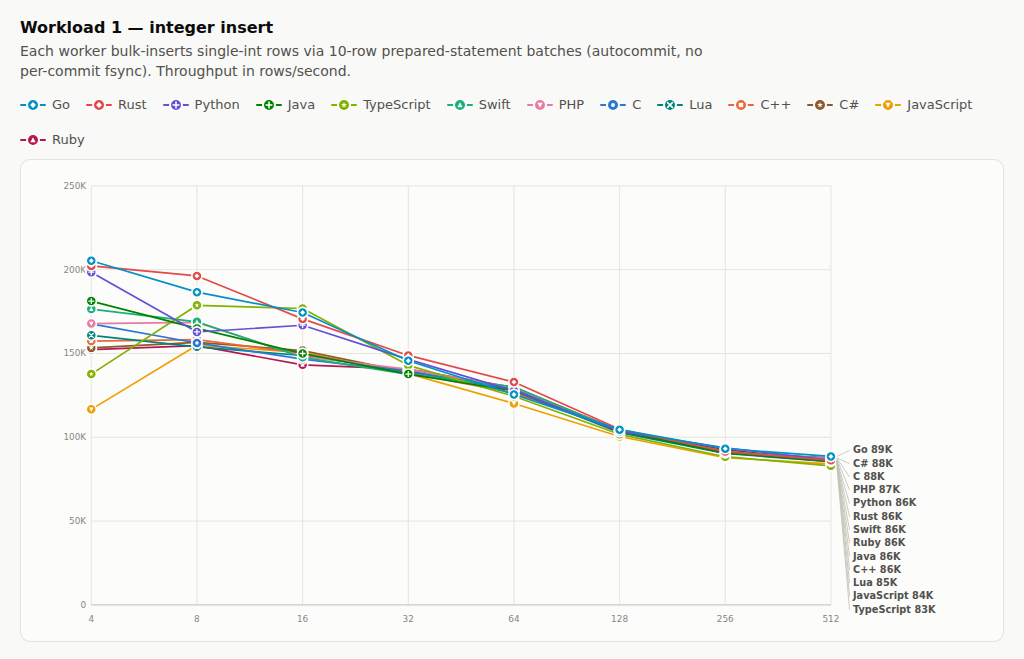
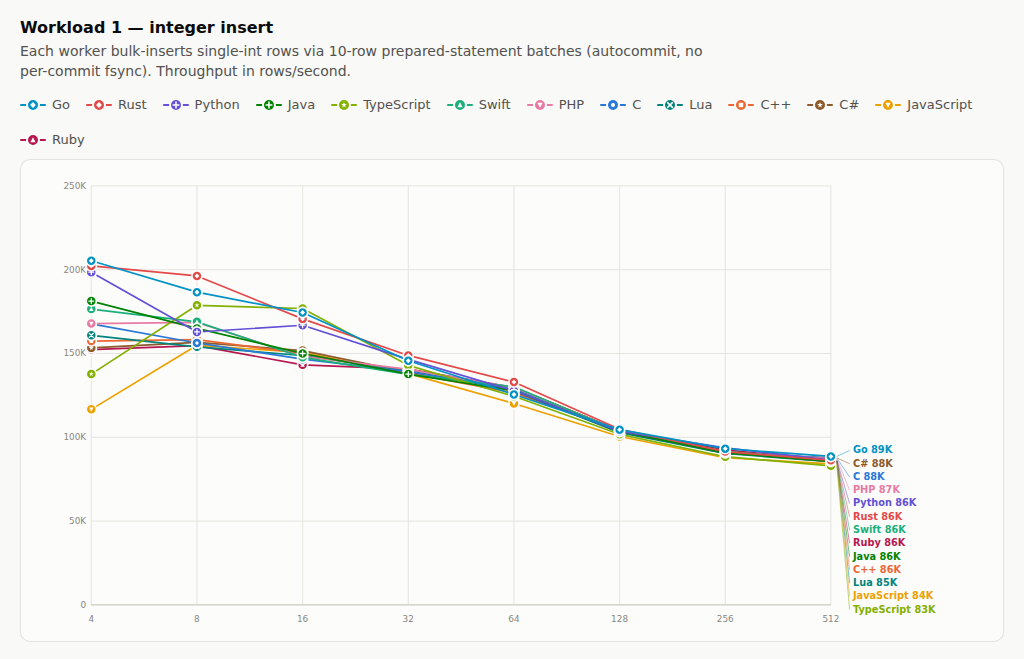
report: colour line-chart end labels to match their series
The right-side reference labels (language name + score) and their leader lines
on the line charts now use each series' own colour instead of neutral ink, so
the label ties directly to its line. Applied via inline style so it overrides
the .seriesname stylesheet rule.

Changed region(s): [[0.8125, 0.6677, 0.9062, 0.9408]]

diff --git a/report/report.html b/report/report.html
@@ -359,9 +359,14 @@ const PAGE_BARS = false;
     if (over > 0) for (const L of labels) L.y -= over*(L.y-BM.t)/BIH;
     for (const L of labels) {
       const ax = X(L.li);
-      if (Math.abs(L.y-L.endY) > 3 || ax < X(N-1)-1)
-        svg.appendChild(el("line", { x1: ax+7, y1: L.endY, x2: X(N-1)+22, y2: L.y, stroke: "var(--baseline)", "stroke-width": 1 }));
+      if (Math.abs(L.y-L.endY) > 3 || ax < X(N-1)-1) {
+        const ldr = el("line", { x1: ax+7, y1: L.endY, x2: X(N-1)+22, y2: L.y, "stroke-width": 1 });
+        ldr.style.stroke = L.d.st.color; ldr.setAttribute("stroke-opacity", "0.6");
+        svg.appendChild(ldr);
+      }
+      // End-of-line reference label (language + score) in the series' own colour.
       const t = el("text", { x: X(N-1)+26, y: L.y+3.5, class: "seriesname" });
+      t.style.fill = L.d.st.color;
       t.textContent = L.d.name + "  " + fmt(L.d.vals[L.li]); svg.appendChild(t);
     }
     const cross = el("line", { y1: BM.t, y2: BM.t+BIH, stroke: "var(--baseline)", "stroke-width": 1, visibility: "hidden" });

diff --git a/report/bars.html b/report/bars.html
@@ -295,9 +295,14 @@ const PAGE_BARS = true;
     if (over > 0) for (const L of labels) L.y -= over*(L.y-BM.t)/BIH;
     for (const L of labels) {
       const ax = X(L.li);
-      if (Math.abs(L.y-L.endY) > 3 || ax < X(N-1)-1)
-        svg.appendChild(el("line", { x1: ax+7, y1: L.endY, x2: X(N-1)+22, y2: L.y, stroke: "var(--baseline)", "stroke-width": 1 }));
+      if (Math.abs(L.y-L.endY) > 3 || ax < X(N-1)-1) {
+        const ldr = el("line", { x1: ax+7, y1: L.endY, x2: X(N-1)+22, y2: L.y, "stroke-width": 1 });
+        ldr.style.stroke = L.d.st.color; ldr.setAttribute("stroke-opacity", "0.6");
+        svg.appendChild(ldr);
+      }
+      // End-of-line reference label (language + score) in the series' own colour.
       const t = el("text", { x: X(N-1)+26, y: L.y+3.5, class: "seriesname" });
+      t.style.fill = L.d.st.color;
       t.textContent = L.d.name + "  " + fmt(L.d.vals[L.li]); svg.appendChild(t);
     }
     const cross = el("line", { y1: BM.t, y2: BM.t+BIH, stroke: "var(--baseline)", "stroke-width": 1, visibility: "hidden" });

diff --git a/report/generate_html_report.py b/report/generate_html_report.py
@@ -534,9 +534,14 @@ const PAGE_BARS = __PAGE_BARS__;
     if (over > 0) for (const L of labels) L.y -= over*(L.y-BM.t)/BIH;
     for (const L of labels) {
       const ax = X(L.li);
-      if (Math.abs(L.y-L.endY) > 3 || ax < X(N-1)-1)
-        svg.appendChild(el("line", { x1: ax+7, y1: L.endY, x2: X(N-1)+22, y2: L.y, stroke: "var(--baseline)", "stroke-width": 1 }));
+      if (Math.abs(L.y-L.endY) > 3 || ax < X(N-1)-1) {
+        const ldr = el("line", { x1: ax+7, y1: L.endY, x2: X(N-1)+22, y2: L.y, "stroke-width": 1 });
+        ldr.style.stroke = L.d.st.color; ldr.setAttribute("stroke-opacity", "0.6");
+        svg.appendChild(ldr);
+      }
+      // End-of-line reference label (language + score) in the series' own colour.
       const t = el("text", { x: X(N-1)+26, y: L.y+3.5, class: "seriesname" });
+      t.style.fill = L.d.st.color;
       t.textContent = L.d.name + "  " + fmt(L.d.vals[L.li]); svg.appendChild(t);
     }
     const cross = el("line", { y1: BM.t, y2: BM.t+BIH, stroke: "var(--baseline)", "stroke-width": 1, visibility: "hidden" });
